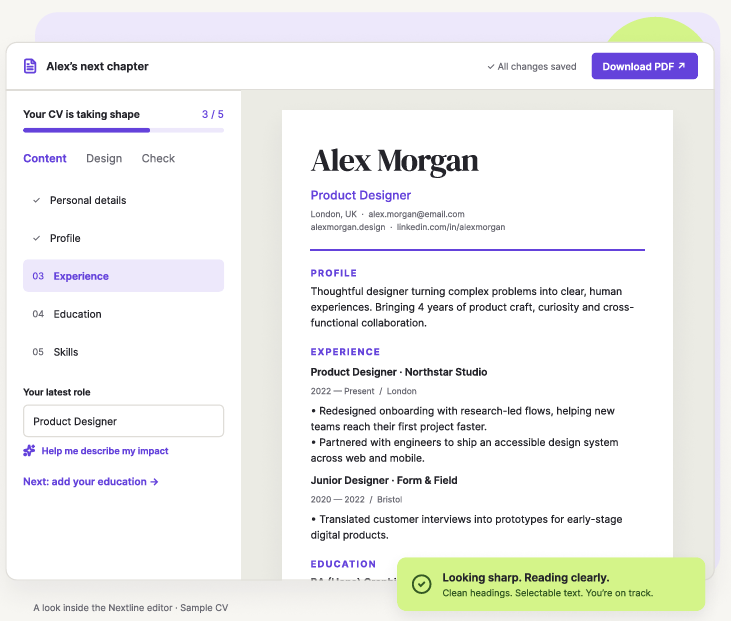
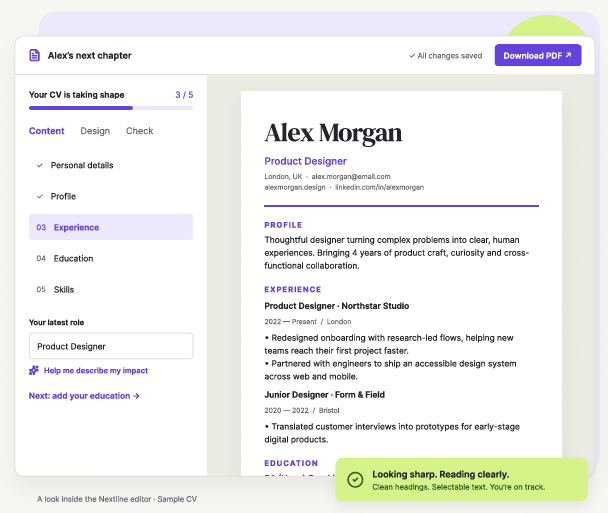
feature hero section

diff --git a/CSS-folder/index.css b/CSS-folder/index.css
@@ -1,0 +1,120 @@
+*{
+    margin: 0%;
+    padding: 0%;
+    box-sizing: border-box;
+}
+
+:root{
+    --primary-text-color : #25252A;
+    --primary-btn-color : #6543DC ;
+    --secondary-color : #D5F58A;
+    --bg-color : #FFFFFF;
+    --border-color : #DFDED8;
+    --para-color : #6A6973;
+    --primary-font : 'DM Serif Display';
+    --secondary-font : 'Inter',sans-serif;
+}
+
+.hero-container{
+    display: flex;
+    align-items: center;
+    justify-content: space-between;
+    padding: 50px;
+    background-color: #F7F6F2;
+}
+
+.left{
+    display: flex;
+    flex-direction: column;
+    justify-content: center;
+    gap: 35px;
+}
+
+.small-text{
+    font-family: var(--secondary-font);
+    font-size: 12px;
+    font-weight: bold;
+    color: var(--primary-btn-color) ;
+}
+
+.hero-heading{
+    font-size: 80px;
+    line-height: 85px;
+}
+
+.line{
+    width: 200px;
+    height: 10px;
+    background-color: var(--secondary-color);
+    border-radius: 20px;
+}
+
+.description{
+    font-size: 19px;
+    font-family: var(--secondary-font);
+    line-height: 165%;
+    color: var(--para-color);
+}
+
+.buttons{
+    display: flex;
+    gap: 10px;
+    align-items: center;
+}
+
+.btn-primary2{
+    margin: 0;
+    background-color: var(--primary-btn-color);
+    color: var(--bg-color);
+    font-family: var(--secondary-font);
+    font-size: 15px;
+    font-weight: 600;
+    border-radius: 8px;
+    padding: 20px;
+}
+
+.btn-secondary{
+    background-color: var(--secondary-btn-color);
+    color: #000;
+    font-family: var(--secondary-font);
+    font-size: 15px;
+    font-weight: 600;
+    border: 1px solid var(--border-color);
+    border-radius: 8px;
+    padding: 20px;
+}
+
+.tick{
+    height: 20px;
+    width: 20px;
+}
+
+.check{
+    display: flex;
+    align-items: center;
+    justify-content: left;
+    font-family: var(--secondary-font);
+    font-size: 12px;
+    color: var(--para-color);
+    gap: 8px;
+}
+
+.bottom-text{
+    display: flex;
+    align-items: center;
+    justify-content: left;
+    font-family: var(--secondary-font);
+    font-size: 12px;
+    gap: 8px;
+    color: var(--para-color);
+}
+
+.arrow{
+    height: 30px;
+    width: 30px;
+}
+
+.img{
+    height: 650px;
+}
+

diff --git a/HTML-folder/index.html b/HTML-folder/index.html
@@ -28,12 +28,64 @@
        <!-- Action Buttons -->
       <div class="nav-actions">
         <a class="login-btn" href="#" class="btn-login">Log in</a>
-        <a href="#" class="btn-primary">Create my CV ↗</a>
+        <a href="#" class="btn-primary1">Create my CV ↗</a>
       </div>
 
     </nav>
     </div>
 
+    <!-- hero section  -->
+
+    <div class="hero-container">
+
+        <div class="left">
+
+            <div class="small-text">
+                🟪 A LITTLE GUIDANCE. A LOT OF YOU.
+            </div>
+
+            <h1 class="hero-heading">
+                Your Story.<br>
+                Only<br>
+                Stronger.
+            </h1>
+
+            <div class="line"></div>
+
+            <p class="description">
+                Make a CV that feels like you—and reads like your <br>
+                next opportunity. Thoughtful templates, guided <br>
+                editing and AI when you need a nudge.
+            </p>
+
+            <div class="buttons">
+
+                <a href="#" class="btn-primary2">
+                    Build my CV ↗
+                </a>
+
+                <a href="#" class="btn-secondary">
+                    Explore templates ↗
+                </a>
+
+            </div>
+
+            <div class="check">
+                <span><img class="tick" src="../assets/images/noun_tick_7138168_@700.png" alt=""></span> Start free. No blank page required.
+            </div>
+
+            <div class="bottom-text">
+                <span><img class="arrow" src="../assets/images/noun_Arrow.png" alt=""></span>Make your next move a good one.
+            </div>
+
+        </div>
+
+        <div class="right">
+          <img class="img" src="../assets/images/side img.png" alt="">
+
+        </div>
+
+    </div>
 
     <script src="../JS-folder/index.js"></script>
 </body>

diff --git a/HTML-folder/templates.html b/HTML-folder/templates.html
@@ -10,6 +10,29 @@
 </head>
 <body>
     
+    <!-- navbar -->
+
+    <div class="nav-container">
+    <nav class="navbar">
+      <!-- Logo Section -->
+     <img src="../assets/icons/cv-web-logo-removebg-preview.png" height="70">
+
+      <!-- Navigation Links -->
+      <div class="nav-links">
+          <a  href="#">CV builder</a>
+          <a class="nav-link" href="#">Templates</a>
+          <a class="nav-link" href="#">How it works</a>
+          <a class="nav-link" href="#">Career notes</a>
+      </div>
+
+       <!-- Action Buttons -->
+      <div class="nav-actions">
+        <a class="login-btn" href="#" class="btn-login">Log in</a>
+        <a href="#" class="btn-primary1">Create my CV ↗</a>
+      </div>
+
+    </nav>
+    </div>
 
 
     <script src="../JS-folder/templates.js"></script>

diff --git a/CSS-folder/common.css b/CSS-folder/common.css
@@ -24,6 +24,8 @@ h2{
     font-size: 54px;
 }
 
+/* navbar top */
+
 .navbar{
     font-family: var(--secondary-font);
     font-size: 15px;
@@ -38,6 +40,13 @@ h2{
     border: 2px solid #DFDED8;
 }
 
+.nav-actions{
+    display: flex;
+    justify-content: space-between;
+    align-items: center;
+    gap: 20px;
+}
+
 .nav-link{
     margin-left: 20px;
 }
@@ -46,9 +55,8 @@ h2{
     color: black;
 }
 
-.btn-primary{
-    margin: 0 0 0 10px;
-    padding: 18px;
+.btn-primary1{
+    padding: 15px;
     border-radius: 8px;
     background-color: var(--primary-btn-color);
     color: #FFFFFF;
